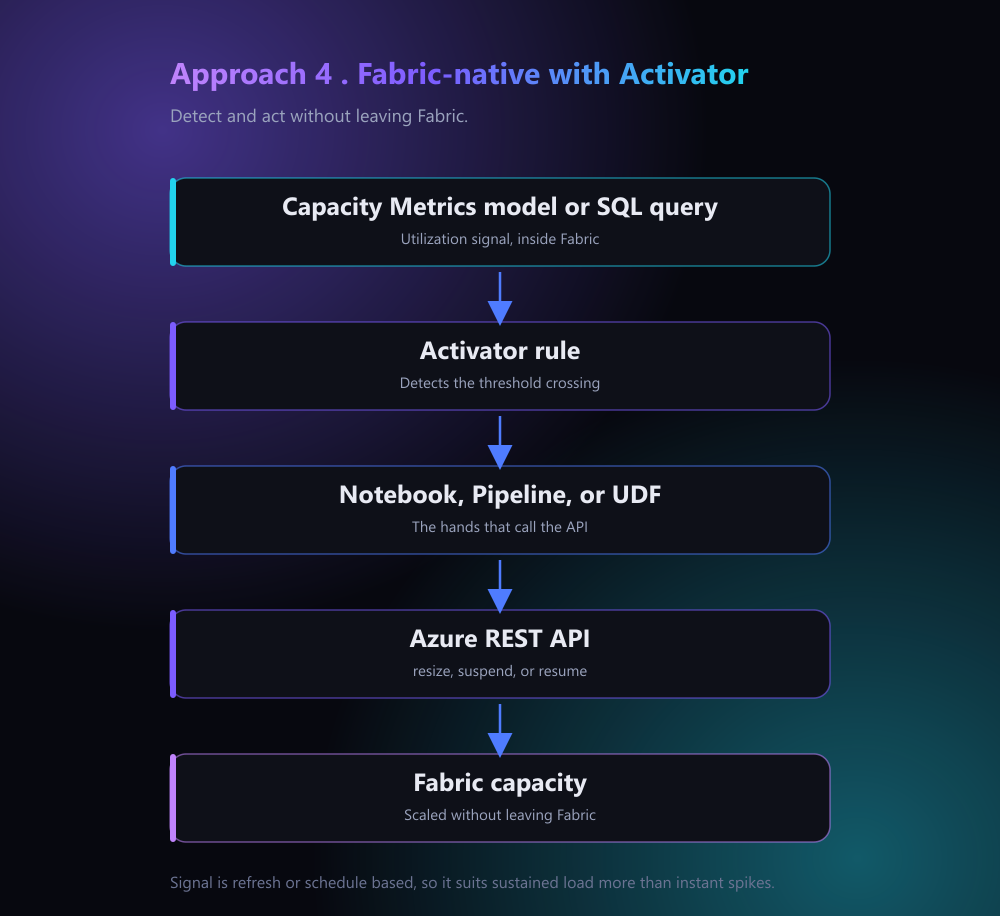
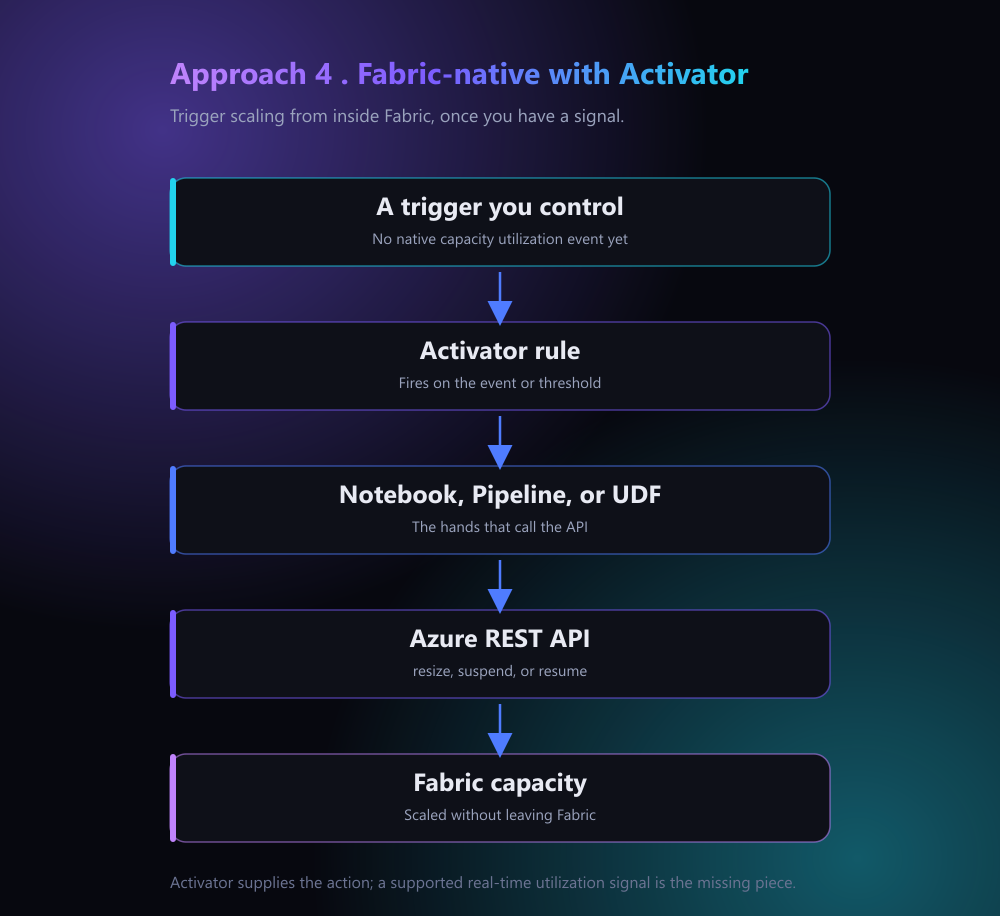
Fact-check fix: replace unsupported Azure Monitor approach with Azure Function timer, reframe Activator reactivity honestly

diff --git a/src/content/blog/automating-microsoft-fabric-capacity-scaling.md b/src/content/blog/automating-microsoft-fabric-capacity-scaling.md
@@ -1,6 +1,6 @@
 ---
 title: "Automating Microsoft Fabric Capacity Scaling: Four Ways to Do It"
-description: "A hands-on guide to automating Microsoft Fabric capacity scaling four ways: Logic Apps, Automation runbooks, Azure Monitor, and Fabric Activator."
+description: "A hands-on guide to automating Microsoft Fabric capacity scaling: Logic Apps, Automation runbooks, Azure Functions, and Fabric Activator."
 pubDate: 2026-07-29
 category: "Data"
 tags: ["Fabric", "Capacity", "Cost Optimization", "Automation", "Activator"]
@@ -105,39 +105,49 @@ Attach a schedule to the runbook and you have the same behavior as the Logic App
 
 **Best for:** teams whose operational tooling already lives in Azure Automation.
 
-## Approach 3: Metric-driven scaling with Azure Monitor
+## Approach 3: A timer-triggered Azure Function
 
-Schedules are simple, but they cannot react to a surprise. If your load is spiky rather than predictable, you want to scale on the actual signal instead of the clock.
+If you would rather express your scaling logic as code than in a Logic App designer, a timer-triggered Azure Function does the same scheduled job and costs almost nothing to run. It fits well when scaling is one small piece of a larger codebase you already deploy.
 
-![Approach 3: Fabric capacity metrics feed an Azure Monitor alert that runs a Logic App or Function to scale the capacity](/images/blog/automating-microsoft-fabric-capacity-scaling/approach-3-metric.png)
+![Approach 3: a timer-triggered Azure Function calls the Azure REST API to resize or pause the capacity on a schedule](/images/blog/automating-microsoft-fabric-capacity-scaling/approach-3-function.png)
 
-The pattern:
+The wiring:
 
-1. **Watch a utilization metric** on the capacity through Azure Monitor.
-2. **Define an alert rule** with a threshold, for example when utilization stays high for a sustained window.
-3. **Point the alert at an action group** that runs a Logic App or an Azure Function.
-4. **That action calls the same REST API** to scale up, and a second rule scales back down when utilization falls.
+1. **Create a Function with a timer trigger.** The schedule is an NCRONTAB expression, for example one Function that scales up at 8am and another that scales down at 8pm.
+2. **Turn on the Function's managed identity** and assign the custom role above to it, scoped to the capacity.
+3. **Call the REST API from code**, using the Azure SDK or a plain HTTP request to the resize, suspend, or resume endpoints.
 
-This reacts to real demand, which is exactly what you want for unpredictable load. The cost is more moving parts and the need to tune thresholds so you scale on genuine trends rather than flapping on every brief blip.
+```python
+import azure.functions as func
+import requests
+from azure.identity import DefaultAzureCredential
 
-**Best for:** spiky load where a fixed schedule would either overprovision or miss the peak.
+app = func.FunctionApp()
 
-## Approach 4: Fabric-native scaling with Activator
+@app.timer_trigger(schedule="0 0 20 * * 1-5", arg_name="timer")  # 8pm on weekdays
+def scale_down(timer: func.TimerRequest) -> None:
+    token = DefaultAzureCredential().get_token("https://management.azure.com/.default").token
+    base = f"https://management.azure.com/subscriptions/{sub}/resourceGroups/{rg}/providers/Microsoft.Fabric/capacities/{name}"
+    requests.patch(
+        f"{base}?api-version=2023-11-01",
+        headers={"Authorization": f"Bearer {token}"},
+        json={"sku": {"name": "F16", "tier": "Fabric"}},
+    )
+```
 
-Here is the approach that keeps everything inside Fabric, and it is the most interesting one, with one honest caveat you need to understand up front.
+**Best for:** teams who prefer their scheduled scaling as versioned, testable code.
 
-The idea is to run a smaller capacity as your baseline and let **Activator**, Fabric's no-code event and rules engine, watch utilization and trigger a scale-up when it crosses a threshold. Activator can trigger a notebook, a pipeline, or a User Data Function directly, and that item makes the API call.
+## Approach 4: Fabric-native triggering with Activator
+
+The three approaches above are all scheduled. The obvious next question is whether you can scale reactively, when utilization actually climbs, and do it from inside Fabric. The honest answer today is a partial yes, and it is worth knowing exactly where the line falls.
+
+**Activator**, Fabric's no-code event and rules engine, can trigger a notebook, a pipeline, or a User Data Function directly, and that item can call the scaling API. So the action half of a reactive loop genuinely exists and stays inside Fabric.
 
 ![Approach 4: a utilization signal in Fabric drives an Activator rule that triggers a notebook, pipeline, or UDF to call the REST API](/images/blog/automating-microsoft-fabric-capacity-scaling/approach-4-activator.png)
 
-The caveat: Activator cannot natively watch capacity utilization. Fabric's built-in events today cover workspace item activity, not a "capacity hit 85 percent" signal. So the real work is getting utilization into a form Activator can watch. Two practical options:
+The missing half is the signal. Activator cannot watch capacity utilization directly, because Fabric's built-in events today cover workspace item activity, not a "capacity hit 85 percent" event. The place utilization actually lives, the Capacity Metrics app, refreshes on a 10 to 15 minute latency, and its semantic model is documented as not supported for use outside the app's own reports. So there is no clean, supported way to feed real-time CU utilization into an Activator rule right now.
 
-- Build an Activator rule on the **Capacity Metrics semantic model**, since a Power BI report or semantic model is a valid Activator source.
-- Land utilization data in a Warehouse or KQL table and use an Activator rule that evaluates a **scheduled SQL query** on it.
-
-Both are refresh or schedule based, so this reacts on the order of minutes, not milliseconds. That makes it a good fit for sustained load patterns and a poor fit for catching an instantaneous spike. Be honest with yourself about which you have.
-
-Once the signal is in place, Activator is the trigger and a Fabric item is the hands. A notebook doing the resize looks like this:
+What this means in practice: use Activator as the trigger when you already have a suitable event or a signal you legitimately control, such as a business event you publish yourself or a threshold on your own data that stands in as a proxy for load. The notebook it fires looks like this:
 
 ```python
 import requests
@@ -158,21 +168,27 @@ requests.patch(
 )
 ```
 
-The whole loop runs without leaving Fabric, which is a genuinely nice story for a shop that is all-in on the platform. Just size your expectations to the latency of the signal.
+The whole action runs without leaving Fabric, which is a genuinely nice story for a shop that is all-in on the platform.
 
-**Best for:** Fabric-centric teams that want the automation to live in the platform, on load patterns that build over minutes rather than seconds.
+**Best for:** Fabric-centric teams that want the scaling action to live in the platform and already have a trigger to hang it on.
+
+## What about true reactive autoscale?
+
+It is worth saying plainly, because it is easy to assume otherwise: Fabric does not yet offer turnkey, utilization-driven autoscaling of a capacity. You might reach for Azure Monitor the way you would to autoscale a virtual machine, but Fabric capacity does not publish utilization as an Azure Monitor metric, and the Capacity Metrics app that does hold utilization explicitly does not support alerts. Microsoft points you to Real-Time hub for alerting, and Real-Time hub does not yet carry a capacity-utilization event.
+
+So the reliable levers today are scheduled scaling and pause and resume, plus **Autoscale Billing for Spark** when the pressure is specifically Spark. If your load is genuinely spiky, the pragmatic move is a schedule generous enough to cover your known peaks, and pausing or downsizing hard during the windows you know are quiet.
 
 ## Choosing between them
 
-| Approach | Reacts to | Effort | Best fit |
+| Approach | Driven by | Effort | Best fit |
 | --- | --- | --- | --- |
 | Logic App schedule | The clock | Low | Predictable business-hours patterns |
 | Automation runbook | The clock | Low | Teams already in Azure Automation |
-| Azure Monitor | Real load | Medium | Spiky, unpredictable demand |
-| Fabric Activator | Real load, minute-scale | Medium | Fabric-native shops, sustained load |
+| Azure Function timer | The clock | Low | Scheduled scaling as code |
+| Fabric Activator | A trigger you supply | Medium | Fabric-native action, if you have a signal |
 | Autoscale Billing for Spark | Spark demand | Low | Bursty Spark jobs specifically |
 
-A reasonable default: start by pausing dev and test capacities off-hours, since that is the largest and easiest saving. Put a scheduled resize on predictable production capacities. Reserve the metric-driven and Activator approaches for the workloads that genuinely spike, and reach for Autoscale Billing for Spark when the spikes are Spark jobs rather than the capacity as a whole.
+A reasonable default: start by pausing dev and test capacities off-hours, since that is the largest and easiest saving. Put a scheduled resize, via a Logic App, a runbook, or a Function, on predictable production capacities. Reach for Autoscale Billing for Spark when the pressure is Spark jobs rather than the capacity as a whole, and use the Activator pattern when you have a legitimate trigger and want the action to stay inside Fabric.
 
 ## Gotchas worth knowing before you ship
 
@@ -181,7 +197,7 @@ A reasonable default: start by pausing dev and test capacities off-hours, since 
 - **Below F64 changes who can read your reports.** F64 is the threshold at which free users with a viewer role can consume Power BI content. Scale below it and those users may be prompted to upgrade, so schedule the small size for hours when they are not working.
 - **Pausing bills your smoothed overage.** When you pause, any remaining smoothed and burst usage is summed and added to your bill. Pausing also instantly ends throttling, which makes it a useful emergency lever, but content is unavailable until you resume.
 - **Prefer resize over workspace reassignment.** Reassigning a workspace to another capacity cancels its running jobs. Resizing in place does not.
-- **Mind the Activator signal latency.** It reacts on the cadence of your metrics refresh or scheduled query, not in real time.
+- **There is no native utilization trigger yet.** Fabric capacity does not publish Azure Monitor metrics, and the Capacity Metrics app does not support alerts, so reactive autoscaling is not turnkey today. Plan around scheduled scaling.
 
 ## Where this leaves you
 
@@ -197,4 +213,5 @@ This post is based on Microsoft's public documentation:
 - [Pause and resume your Fabric capacity](https://learn.microsoft.com/en-us/fabric/enterprise/pause-resume) (Microsoft Learn)
 - [Autoscale Billing for Spark in Microsoft Fabric](https://learn.microsoft.com/en-us/fabric/data-engineering/autoscale-billing-for-spark-overview) (Microsoft Learn)
 - [What is Fabric Activator?](https://learn.microsoft.com/en-us/fabric/real-time-intelligence/data-activator/activator-introduction) (Microsoft Learn)
+- [What is the Microsoft Fabric Capacity Metrics app?](https://learn.microsoft.com/en-us/fabric/enterprise/metrics-app) (Microsoft Learn)
 - [Fabric Capacities REST API: Update, Suspend, Resume](https://learn.microsoft.com/en-us/rest/api/microsoftfabric/fabric-capacities/update) (Microsoft Learn)
